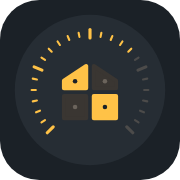
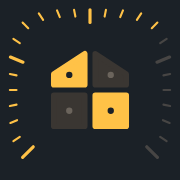
Icônes : un seul rond (Windows), jauge au bord, traits fins, maison centrée ; Samsung en squircle
Claude-Session: https://claude.ai/code/session_01UzEPtZNZEKVBjzia6zzU1u

diff --git a/sw.js b/sw.js
@@ -1,5 +1,5 @@
 /* Réseau d'abord (toujours revalidé : le cache HTTP de GitHub Pages dure 10 min) ; copie locale si hors ligne. */
-const C = 'maxisk-v7';
+const C = 'maxisk-v8';
 self.addEventListener('install', () => self.skipWaiting());
 self.addEventListener('activate', e => e.waitUntil(caches.keys().then(ks => Promise.all(ks.filter(k => k.startsWith('maxisk-') && k !== C).map(k => caches.delete(k)))).then(() => self.clients.claim())));
 self.addEventListener('fetch', e => {
